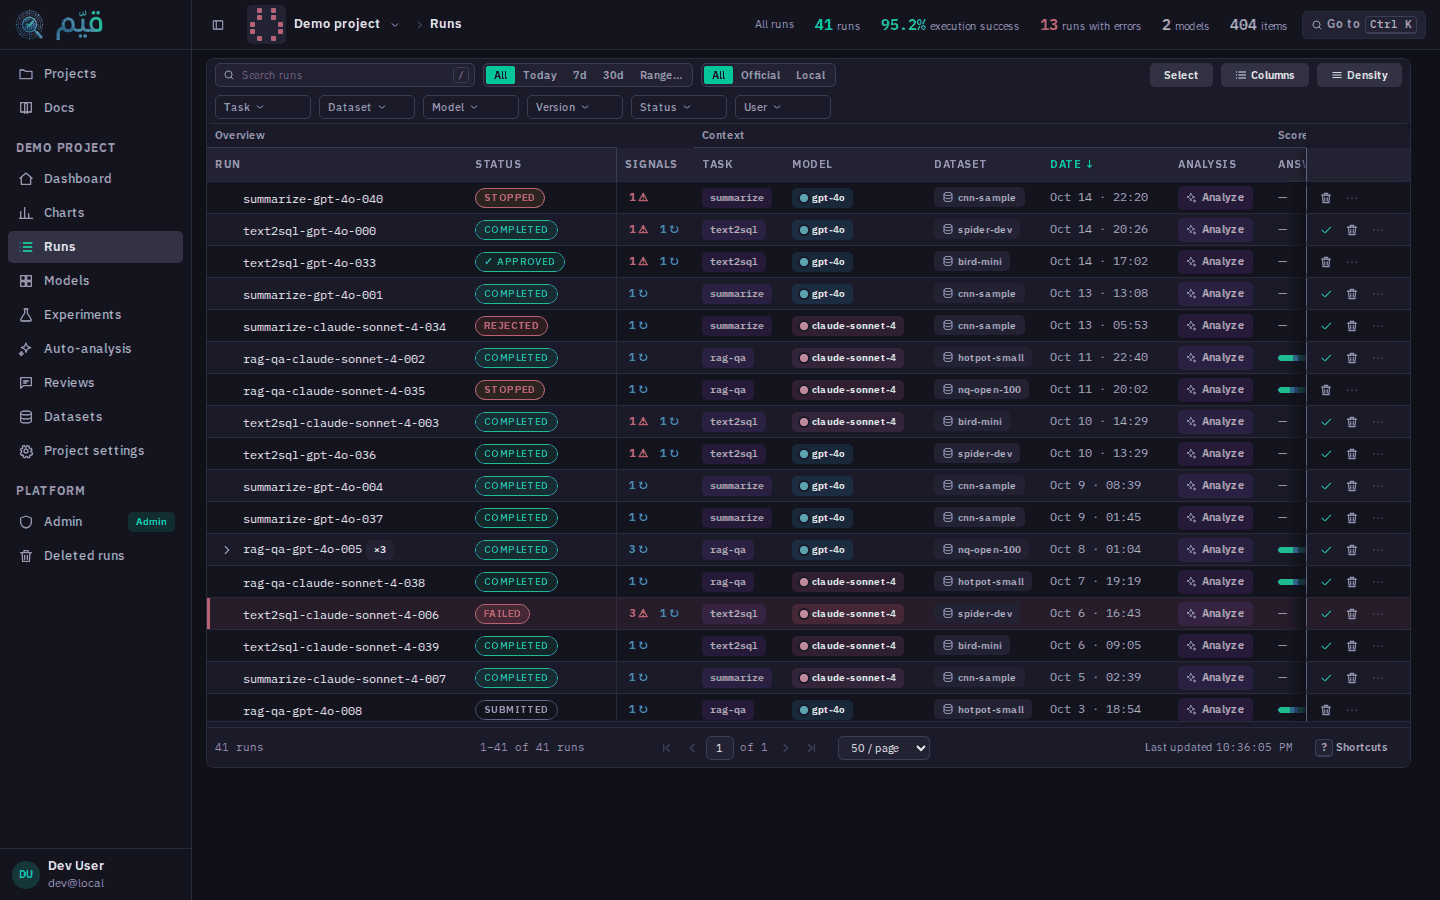
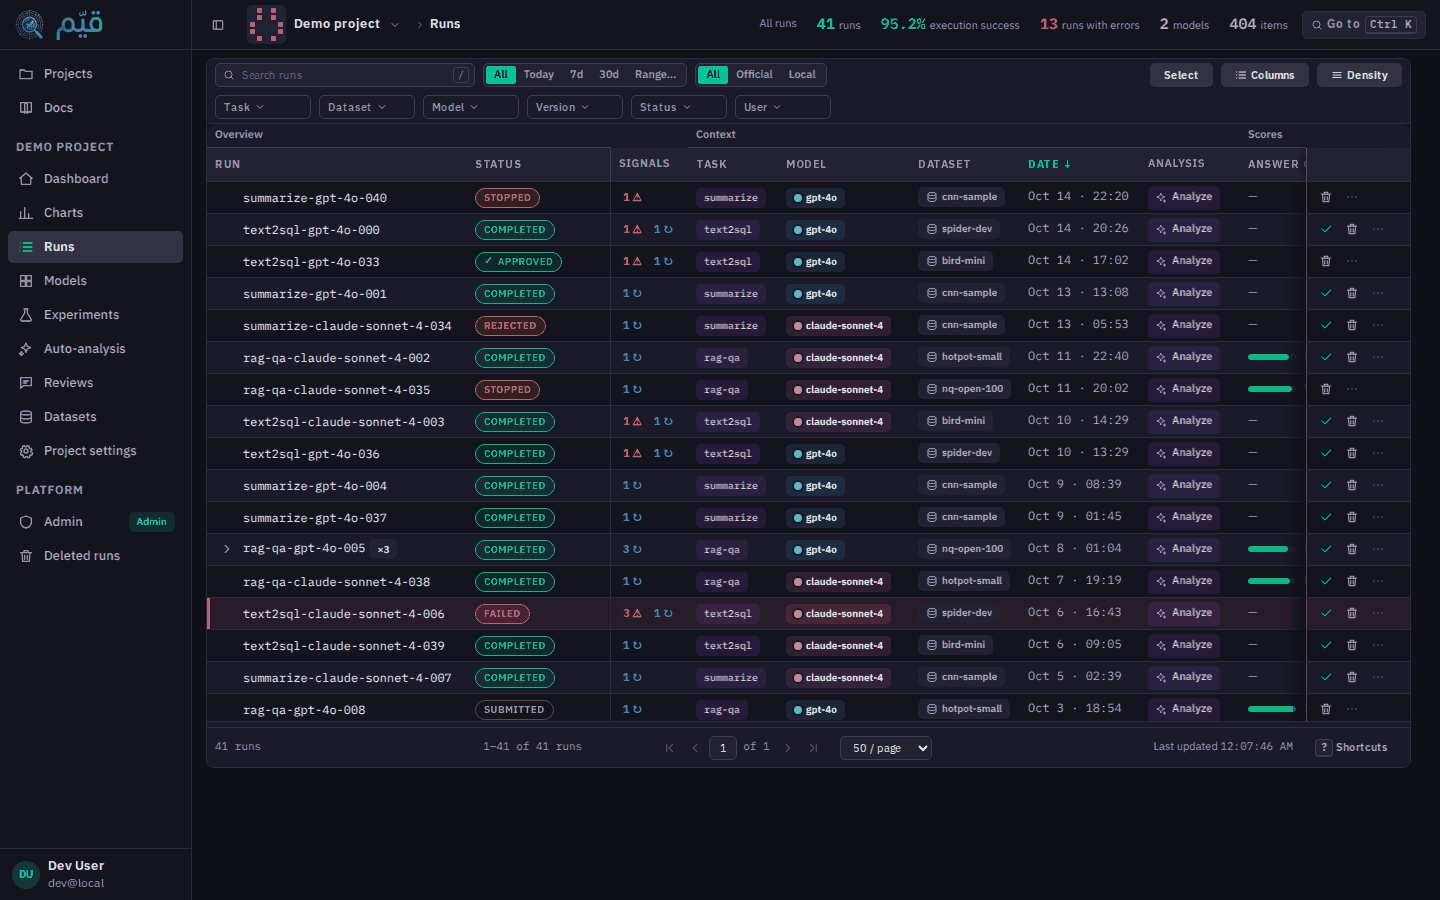
fix(ui): series order without cyan in the first five, geometricPrecision for tracked labels, review docs

diff --git a/frontend/src/styles/tokens.css b/frontend/src/styles/tokens.css
@@ -59,8 +59,8 @@
   --chart-1: #38bdf8;
   --chart-2: #f472b6;
   --chart-3: #fb923c;
-  --chart-4: #22d3ee;
-  --chart-5: #fbbf24;
+  --chart-4: #fbbf24;
+  --chart-5: #818cf8;
 
   /* Borders — more visible */
   /* Hairlines were 1.14 / 1.40 / 2.0 : 1 on --bg-surface, so table rules and card edges vanished on
@@ -288,8 +288,8 @@
   --tint-strong: 20%; /* hover/pressed on a tinted fill, selected pill */
   --error-text: color-mix(in srgb, var(--error) 75%, var(--text-primary)); /* 5.15:1 on a 12% error tint */
 
-  --chart-6: #818cf8;
-  --chart-7: #a3e635;
+  --chart-6: #a3e635;
+  --chart-7: #22d3ee;
   --chart-8: #cbd5e1;
 
   --rail-width: 3px;

diff --git a/frontend/src/styles/base.css b/frontend/src/styles/base.css
@@ -18,6 +18,9 @@ body {
   line-height: 1.4;
   -webkit-font-smoothing: antialiased;
   font-kerning: normal;
+  /* Subpixel glyph positioning: with Plex, tracked uppercase labels (letter-spacing 0.05em) otherwise snap
+     glyphs to whole pixels and show uneven gaps ("STAT US"). Inherited by every label recipe. */
+  text-rendering: geometricPrecision;
   scrollbar-width: thin;
   scrollbar-color: var(--scrollbar-color) var(--scrollbar-track);
   overflow: hidden; /* the shell content area is the only page scroller */

diff --git a/frontend/src/__tests__/design-language.test.ts b/frontend/src/__tests__/design-language.test.ts
@@ -405,8 +405,8 @@ describe('visual language (redesign round 2)', () => {
       '--tint-soft: 12%',
       '--tint-strong: 20%',
       '--error-text: color-mix(in srgb, var(--error) 75%, var(--text-primary))',
-      '--chart-6: #818cf8',
-      '--chart-7: #a3e635',
+      '--chart-6: #a3e635',
+      '--chart-7: #22d3ee',
       '--chart-8: #cbd5e1',
       '--rail-width: 3px',
       '--ease-out: cubic-bezier(0.16, 1, 0.3, 1)',

diff --git a/docs/internal/ui-migration/redesign2/colour-review.md b/docs/internal/ui-migration/redesign2/colour-review.md
@@ -39,9 +39,15 @@ deutan 25, 21, 50, 21. Worst adjacent pair went from dE 4 to 21. Bands 4 and 5 a
 "good"); they differ in lightness and every band is also written as a number or label, so colour never carries the
 value alone.
 
-Series palette, closest pair dE (normal / protan / deutan): before 9 / 1 / 6; after 22 / 10 / 8, with the first five slots
-(the ones real runs use) at 22+ in every simulation. Slots 6 to 8 are the weak tail; they already come with a letter or a
-marker shape beyond 8 series.
+Series palette, closest pair dE (normal / protan / deutan): before 9 / 1 / 6; after (all eight) 22 / 10 / 8. The first
+five slots (the ones real runs use: sky, pink, orange, amber, indigo) are at 31 / 20 / 16 (the independent review's tritan
+simulation gives 12). Cyan was moved out of the first five after review: as slot 4 it sat 22 / 16 / 15 dE (8 tritan)
+from sky slot 1 and run tags A and D were hard to tell apart; it is now slot 7. Slots 6 to 8 are the weak tail; they
+already come with a letter or a marker shape beyond 8 series.
+
+Kept on purpose: series 1 sky `#38bdf8` vs the info/RUNNING blue `#00a8ff` (dE 19, 7 tritan). They never encode the same
+object (a series is a dot, tag or rail beside a name; info is a status pill or progress bar with a word), and moving
+series 1 elsewhere would collide with teal, purple, amber or red, which are all taken.
 
 ## Palette changes (token by token)
 
@@ -52,10 +58,10 @@ marker shape beyond 8 series.
 | `--chart-1` | `#00d4aa` (teal) | `#38bdf8` | teal is the accent |
 | `--chart-2` | `#00a8ff` | `#f472b6` | was the info blue |
 | `--chart-3` | `#a855f7` (purple) | `#fb923c` | purple is metadata |
-| `--chart-4` | `#f472b6` | `#22d3ee` | |
-| `--chart-5` | `#fbbf24` | `#fbbf24` | unchanged value, now series 5 |
-| `--chart-6` | `#60a5fa` (and palette.css `#ea580c`) | `#818cf8` | 4.5:1 and distinct from 1 |
-| `--chart-7` | `#34d399` (and palette.css `#6366f1`) | `#a3e635` | |
+| `--chart-4` | `#f472b6` | `#fbbf24` | cyan moved out of the first five (too close to sky) |
+| `--chart-5` | `#fbbf24` | `#818cf8` | distinct, 5.8:1 |
+| `--chart-6` | `#60a5fa` (and palette.css `#ea580c`) | `#a3e635` | |
+| `--chart-7` | `#34d399` (and palette.css `#6366f1`) | `#22d3ee` | |
 | `--chart-8` | `#fb923c` (and palette.css `#0d9488`) | `#cbd5e1` | neutral last slot |
 | `--border-subtle` | `#252536` (1.14:1 on surface) | `#2b2b40` (1.25:1) | hairlines readable without grey boxes |
 | `--border-default` | `#333348` (1.40:1) | `#3b3b54` (1.59:1) | |

diff --git a/docs/internal/ui-migration/redesign2/typeface-study.md b/docs/internal/ui-migration/redesign2/typeface-study.md
@@ -120,10 +120,10 @@ Two main trade-offs:
   the Plex faces and nothing else" (stack tokens, only the five declared families, every woff2 referenced, licence per
   family, payload under 200 KB, no component names a family).
 
-## Caveat found while looking
+## Caveat found while looking (resolved)
 
-Uppercase labels with 0.05em tracking (table headers, eyebrows) show slightly uneven letter gaps in headless Chromium on
-Linux ("ENVIRONMENT S"). The same raw, unsubsetted Plex TTF reproduces it, it also happens at deviceScaleFactor 2 in
-that renderer, and it disappears without tracking, so it is that renderer's glyph positioning, not the subsetting. Worth
-a look on macOS/Windows Chrome; if it shows there, drop the uppercase tracking to 0.04em in one place (Text, Eyebrow, table
-header recipe).
+Uppercase labels with 0.05em tracking (table headers, eyebrows) showed uneven letter gaps with Plex ("ENVIRONMENT S",
+"STAT US"). The raw unsubsetted TTF reproduces it, and lowering the tracking to 0.04em does not fix it: Chromium snaps
+glyphs to whole pixels. Fix (found in the independent review): `text-rendering: geometricPrecision` on `body` in
+`base.css` (inherited, so every label recipe gets subpixel positioning with its existing 0.05em); verified on the runs
+list headers and the item card keys at 1440.

diff --git a/docs/DESIGN_LANGUAGE.md b/docs/DESIGN_LANGUAGE.md
@@ -391,7 +391,7 @@ cross, trace clock, analysis sparkle), series keep their letter or name.
 Palette rules from the design pass (`docs/internal/ui-migration/redesign2/colour-review.md`): the score ramp is
 red `#ef4444`, orange `#f97316`, yellow `#facc15`, light green `#4ade80`, green `#10b981`; adjacent bands stay at
 least dE 21 apart under protanopia and deuteranopia (the old yellow/lime pair was dE 4 to 10). The eight series
-are sky, pink, orange, cyan, amber, indigo, lime, slate: no teal, purple or red, every one at least 4.5:1 on
+are sky, pink, orange, amber, indigo, lime, cyan, slate: no teal, purple or red, every one at least 4.5:1 on
 `--bg-surface` and `--bg-elevated`; series colours live in `tokens.css` only (no second palette file).
 Hairlines are `--border-subtle/default/strong` at 1.25 / 1.59 / 2.3 : 1 on `--bg-surface`.
 
